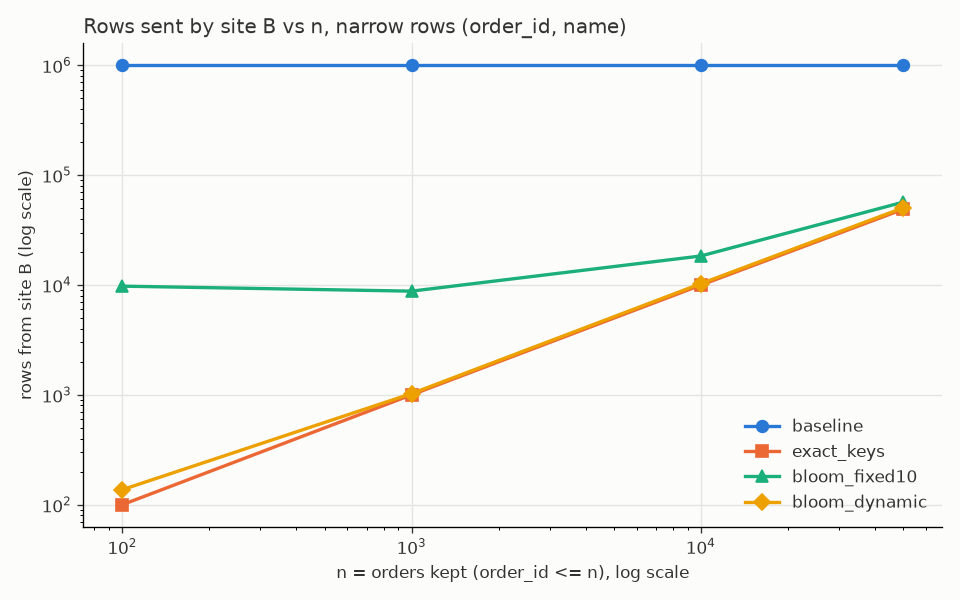
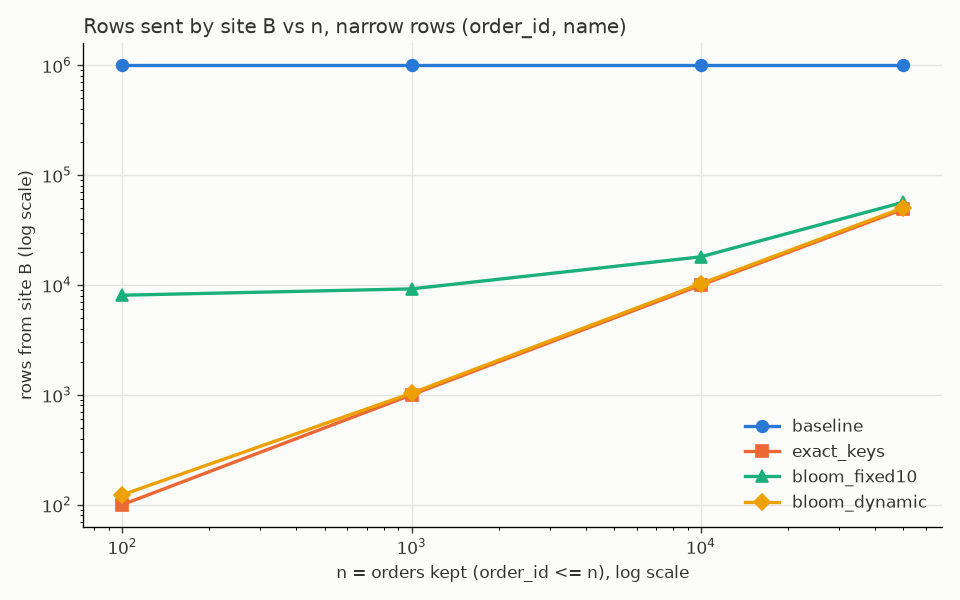
Refresh mid-sem results with filter version 3 (old charts kept in docs/midsem/v1)

diff --git a/docs/fp_investigation.md b/docs/fp_investigation.md
@@ -139,16 +139,20 @@ Possible future improvement (**not done**; it would change the fixed design deci
 
 ## 5. Effect on the benchmark
 
-We reran the full Batch 4 benchmark (`bench/run_all.sh`) with enhanced double hashing. All 36 rows are still exactly correct. Rows that site B sends back for `bloom_dynamic` (narrow rows; false positives = rows − distinct keys):
+We reran the full Batch 4 benchmark (`bench/run_all.sh`) after each change. All 36 rows are exactly correct every time. Results for `bloom_dynamic`, narrow rows (false positives = rows from B − distinct keys):
 
-| n | b | distinct keys | rows from B, v1 | rows from B, v2 | false positives v1 → v2 | total bytes v1 → v2 |
-|---:|---:|---:|---:|---:|---:|---:|
-| 100 | 26.40 | 100 | 315 | 137 | 215 → 37 | 5,995 → 3,009 |
-| 1,000 | 21.60 | 999 | 1,077 | 1,026 | 78 → 27 | 23,516 → 22,660 |
-| 10,000 | 16.80 | 9,955 | 10,290 | 10,265 | 335 → 310 | 214,505 → 214,086 |
-| 50,000 | 13.41 | 48,738 | 50,269 | 50,240 | 1,531 → 1,502 | 1,006,849 → 1,006,362 |
+| n | b | distinct keys | false positives v1 → v2 → v3 | total bytes v1 → v2 → v3 | time (ms) v1 → v2 → v3 |
+|---:|---:|---:|---:|---:|---:|
+| 100 | 26.40 | 100 | 215 → 37 → **23** | 5,995 → 3,009 → **2,774** | 157 → 240 → **164** |
+| 1,000 | 21.60 | 999 | 78 → 27 → **36** | 23,516 → 22,660 → **22,811** | 155 → 229 → **163** |
+| 10,000 | 16.80 | 9,955 | 335 → 310 → **315** | 214,505 → 214,086 → **214,170** | 231 → 282 → **242** |
+| 50,000 | 13.41 | 48,738 | 1,531 → 1,502 → **1,520** | 1,006,849 → 1,006,362 → **1,006,664** | 362 → 379 → **373** |
 
-At n = 100 the Bloom query now moves half the bytes. At n = 1,000 `bloom_dynamic` (22,660 bytes) now beats the exact key list (23,648 bytes). For large n nothing changes, as expected. The b sweep (n = 10,000) still has its minimum next to the predicted b*: narrow b = 18 (b* = 16.8; b = 16 and b = 18 differ by only 0.2%), wide b = 20 (b* = 20.45). The old charts are kept in `docs/midsem/v1/`, and the new ones are in `docs/midsem/`.
+- **Bytes.** At n = 100 the Bloom query now moves less than half the bytes of v1. At n = 1,000 `bloom_dynamic` (22,811 bytes) beats the exact key list (23,648 bytes). For large n nothing changes, as expected.
+- **Time.** v2 was slower, because the first version of the new code computed all k positions before testing any bit. v3 includes an *early exit*: positions are computed one at a time and the test stops at the first 0 bit (the positions are unchanged). On its own, a full scan of the 1,000,000 customers at site B with the n = 100 filter dropped from 102.7 ms to 69.2 ms. Times are single-machine medians of 3 runs, so differences of about ±10% are noise.
+- **b sweep** (n = 10,000): the minimum is still next to the predicted b*: narrow b = 18 (b* = 16.8; b = 16 to 18 are within 0.3%), wide b = 20 (b* = 20.45).
+
+The original Batch 4 charts (v1) are kept in `docs/midsem/v1/`; `docs/midsem/` has the current (v3) ones.
 
 ## 6. Compatibility: the filter version
 
